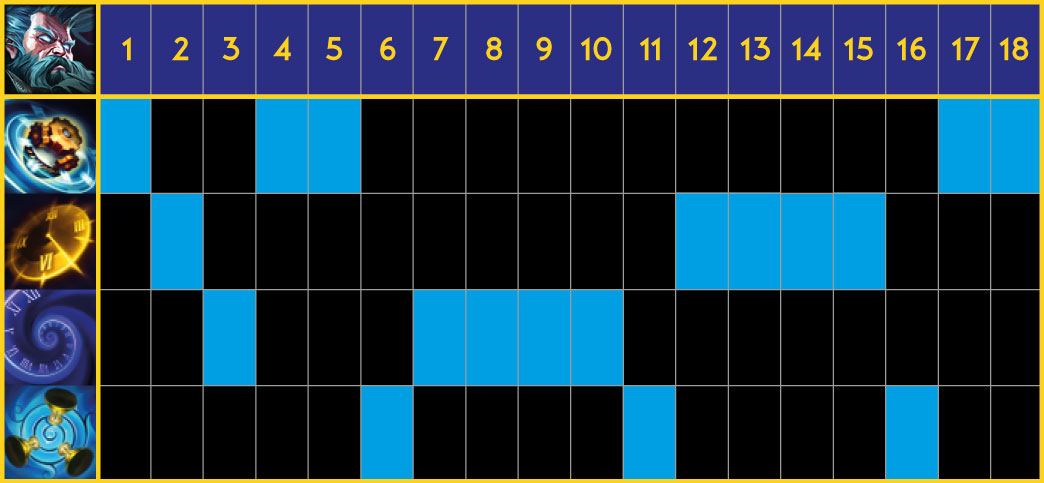
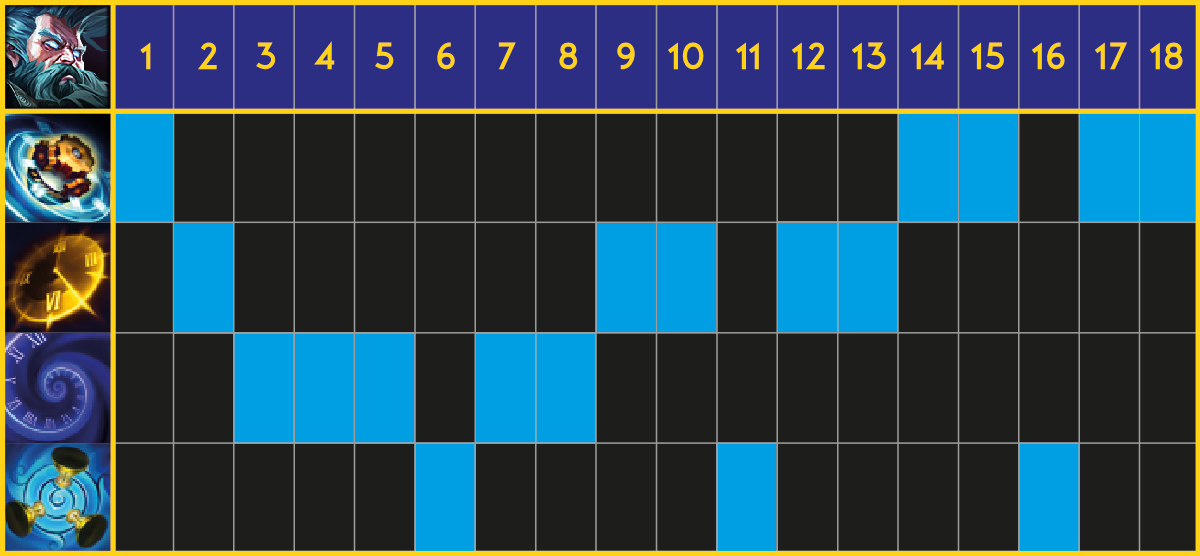
Updated Skill Order images and moved rune template files

diff --git a/src/app/guides/skill-order/skill-hybrid/skill-hybrid.component.html b/src/app/guides/skill-order/skill-hybrid/skill-hybrid.component.html
@@ -1,0 +1,9 @@
+<div class="article-container">
+  <h4>Hybrid Skill Order</h4>
+  <h6>Maxing Time Warp first is one of the most popular skill orders among high elo Zilean Mains.</h6>
+  <app-skill-hybrid-element></app-skill-hybrid-element>
+  <p>For most, maxing E first is a poor choice because Zilean cannot contribute any damage to trades. But what Zilean does offer is a debilitating slow. Combine that with a high-damage AD carry or a jungle gank, then the true strength of Zilean is revealed.</p>
+  <p>When you max E first, you create an artificial zone-of-control where enemy champions dare not enter. Landing a potent slow means a 100% accuracy on Double Bomb (unless they burn a Flash for a 15 second cooldown).</p>
+  <p>Certain builds can elect to putting 3 points into Time Bomb to make laning easier, but delaying the massive slow until level 10. Other Zilean mains prefer to spend all points into E, maxing out at level 9.</p>
+  <p>This playstyle works best with either a Utility or Tanky Item Build and a Reactive Playstyle.</p>
+</div>

diff --git a/src/app/guides/skill-order/skill-order.module.ts b/src/app/guides/skill-order/skill-order.module.ts
@@ -6,6 +6,8 @@ import { SkillQMaxComponent } from './skill-q-max/skill-q-max.component';
 import { SkillEMaxComponent } from './skill-e-max/skill-e-max.component';
 import { SkillQMaxElementComponent } from './skill-q-max/skill-q-max-element/skill-q-max-element.component';
 import { SkillEMaxElementComponent } from './skill-e-max/skill-e-max-element/skill-e-max-element.component';
+import { SkillHybridComponent } from './skill-hybrid/skill-hybrid.component';
+import { SkillHybridElementComponent } from './skill-hybrid/skill-hybrid-element/skill-hybrid-element.component';
 
 @NgModule({
   imports: [
@@ -18,6 +20,8 @@ import { SkillEMaxElementComponent } from './skill-e-max/skill-e-max-element/ski
     SkillEMaxComponent,
     SkillQMaxElementComponent,
     SkillEMaxElementComponent,
+    SkillHybridComponent,
+    SkillHybridElementComponent,
   ],
   exports: [
     SkillQMaxElementComponent,

diff --git a/src/app/guides/skill-order/skill-hybrid/skill-hybrid-element/skill-hybrid-element.component.ts b/src/app/guides/skill-order/skill-hybrid/skill-hybrid-element/skill-hybrid-element.component.ts
@@ -1,0 +1,19 @@
+import { Component, OnInit } from '@angular/core';
+
+@Component({
+  selector: 'app-skill-hybrid-element',
+  templateUrl: './skill-hybrid-element.component.html',
+  styleUrls: ['./skill-hybrid-element.component.scss']
+})
+export class SkillHybridElementComponent implements OnInit {
+
+  imgAlt = "Hybrid Skill Order";
+  imagePath = "assets/images/skill-order/hybrid.jpg";
+  imageLink = "assets/images/skill-order/hybrid-big.jpg"
+
+  constructor() { }
+
+  ngOnInit() {
+  }
+
+}

diff --git a/src/app/guides/skill-order/skill-order.component.html b/src/app/guides/skill-order/skill-order.component.html
@@ -20,7 +20,8 @@
   </div>
 
     <app-skill-q-max *ngIf="componentSelected === itemGuides[0].index"></app-skill-q-max>
-    <app-skill-e-max *ngIf="componentSelected === itemGuides[1].index"></app-skill-e-max>
+    <app-skill-hybrid *ngIf="componentSelected === itemGuides[1].index"></app-skill-hybrid>
+    <app-skill-e-max *ngIf="componentSelected === itemGuides[2].index"></app-skill-e-max>
 
   </div>
 </div>

diff --git a/src/app/guides/skill-order/skill-order.component.ts b/src/app/guides/skill-order/skill-order.component.ts
@@ -18,7 +18,8 @@ export class SkillOrderComponent implements OnInit {
 
   itemGuides: Guide[] = [
     new Guide(0,'q max', '../assets/images/skills/q.png'),
-    new Guide(1,'e max','../assets/images/skills/e.png'),
+    new Guide(1,'hybrid order','../assets/images/skills/e.png'),
+    new Guide(2,'e max','../assets/images/skills/e.png'),
   ]
 
   onSelect(value) {

diff --git a/src/app/guides/skill-order/skill-hybrid/skill-hybrid.component.ts b/src/app/guides/skill-order/skill-hybrid/skill-hybrid.component.ts
@@ -1,0 +1,15 @@
+import { Component, OnInit } from '@angular/core';
+
+@Component({
+  selector: 'app-skill-hybrid',
+  templateUrl: './skill-hybrid.component.html',
+  styleUrls: ['./skill-hybrid.component.scss']
+})
+export class SkillHybridComponent implements OnInit {
+
+  constructor() { }
+
+  ngOnInit() {
+  }
+
+}

diff --git a/src/app/core/home/home.component.scss b/src/app/core/home/home.component.scss
@@ -11,16 +11,3 @@
   flex-direction: column;
   align-items: center;
 }
-
-.guides-button {
-  font-weight: 700;
-  padding: .5em 1em;
-  @include blue-dark-gradient;
-  @include border-shadow;
-  @include transition;
-  margin-bottom: 2em;
-  &:hover {
-    text-decoration: none;
-    color: $blue;
-  }
-}

diff --git a/src/app/guides/skill-order/skill-e-max/skill-e-max-element/skill-e-max-element.component.ts b/src/app/guides/skill-order/skill-e-max/skill-e-max-element/skill-e-max-element.component.ts
@@ -7,6 +7,7 @@ import { Component, OnInit } from '@angular/core';
 })
 export class SkillEMaxElementComponent implements OnInit {
 
+  imgAlt = 'E Max';
   imagePath = "assets/images/skill-order/emax.jpg";
   imageLink = "assets/images/skill-order/emax-big.jpg"
 

diff --git a/src/scss/components/containers/_rune-containers.scss b/src/scss/components/containers/_rune-containers.scss
@@ -32,7 +32,7 @@
     display:flex;
     flex-direction: column;
     align-items: center;
-    padding: 1em .5em;
+    padding: .5em;
     flex:1;
     img {
       background:black;
